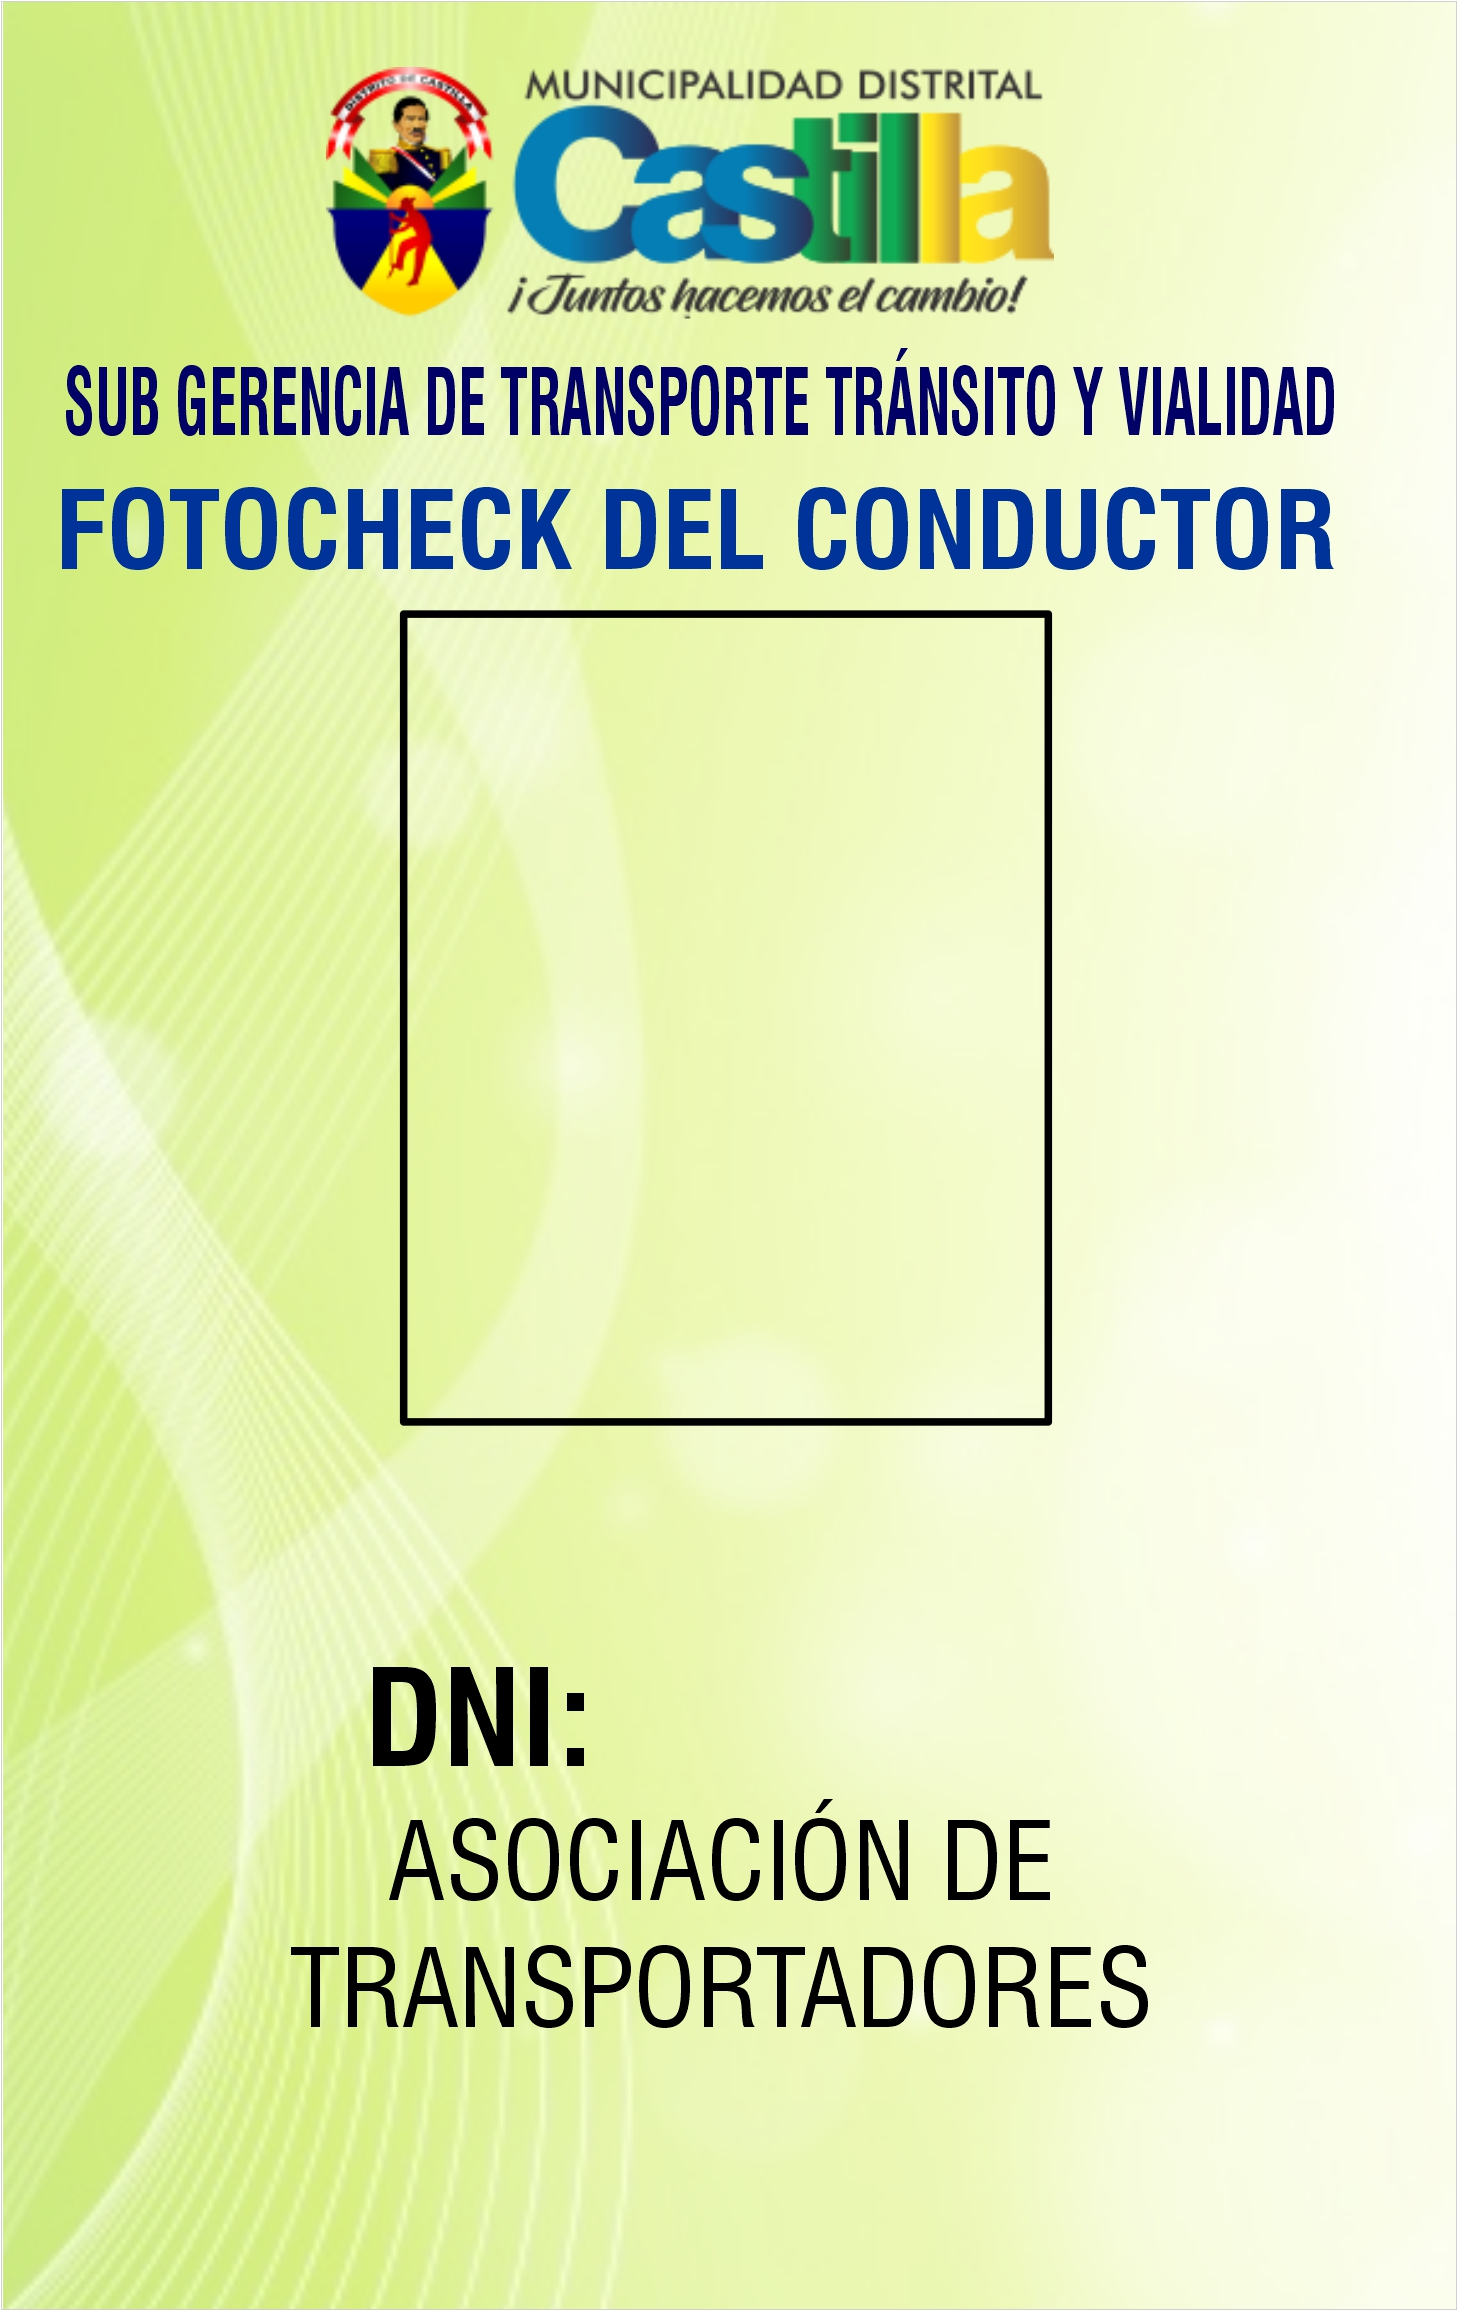
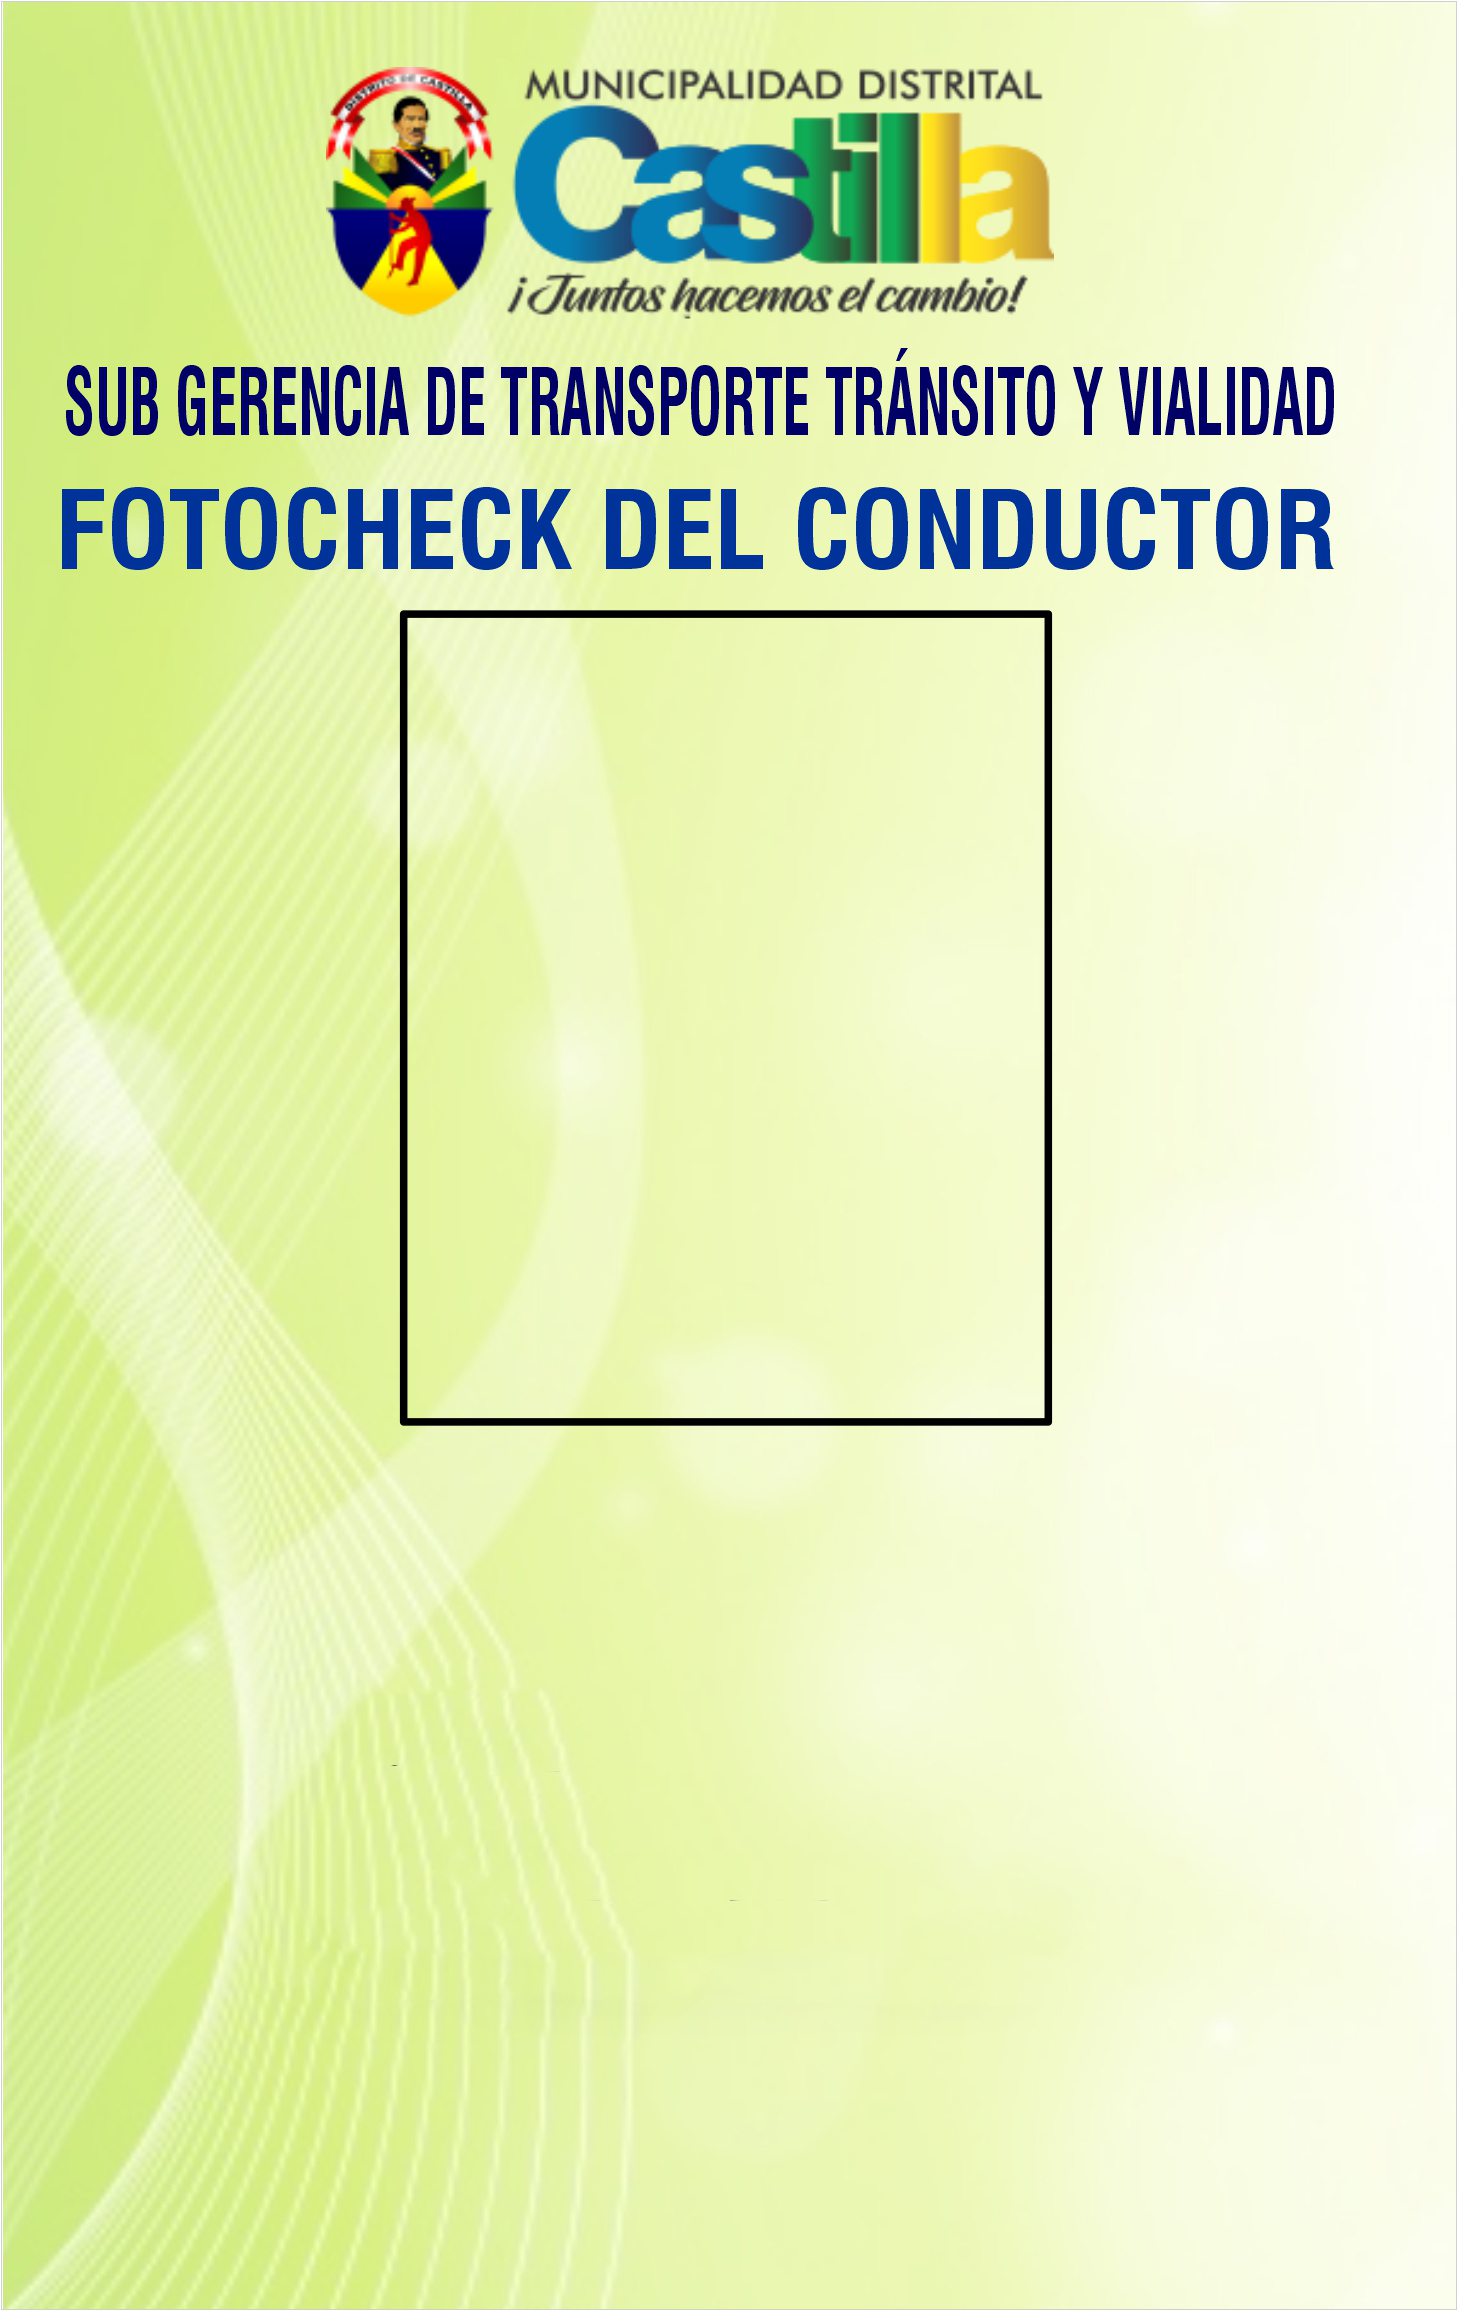
new style fotocheck

diff --git a/resources/views/admin/export/fotocheck.blade.php b/resources/views/admin/export/fotocheck.blade.php
@@ -29,7 +29,21 @@
     height: 30%;
     width: 95%;
     margin: -17% 0 0 -48%;
-    font-size: 2.4rem;
+    font-size: 2rem;
+    font-weight: 900;
+    text-transform: uppercase;
+    text-align: center;
+    line-height: 30px;
+    font-family: sans-serif;
+}
+.texto-encima-dni-tipo {
+    position: absolute;
+    top: 89%;
+    left: 50%;
+    height: 30%;
+    width: 95%;
+    margin: -17% 0 0 -48%;
+    font-size: 1.5rem;
     font-weight: 900;
     text-transform: uppercase;
     text-align: center;
@@ -38,25 +52,41 @@
 }
 .texto-encima-dni {
     position: absolute;
-    top: 90.58%;
-    left: 50%;
-    height: 30%;
-    width: 95%;
-    margin: -17% 0 0 -36%;
-    font-size: 3rem;
-    font-weight: 900;
-    text-transform: uppercase;
-    text-align: center;
-    line-height: 26px;
-}
-.texto-encima-asociacion {
-    position: absolute;
-    top: 107%;
+    top: 93%;
     left: 50%;
     height: 30%;
     width: 95%;
     margin: -17% 0 0 -48%;
-    font-size: 2.4rem;
+    font-size: 1.5rem;
+    font-weight: 900;
+    text-transform: uppercase;
+    text-align: center;
+    line-height: 30px;
+    font-family: sans-serif;
+}
+.texto-encima-asociacion-text {
+    position: absolute;
+    top: 100%;
+    left: 50%;
+    height: 30%;
+    width: 95%;
+    margin: -17% 0 0 -48%;
+    font-size: 1.5rem;
+    font-weight: 900;
+    text-transform: uppercase;
+    text-align: center;
+    line-height: 30px;
+    font-family: sans-serif;
+}
+
+.texto-encima-asociacion {
+    position: absolute;
+    top: 105%;
+    left: 50%;
+    height: 30%;
+    width: 95%;
+    margin: -17% 0 0 -48%;
+    font-size: 2rem;
     font-weight: 900;
     text-transform: uppercase;
     text-align: center;
@@ -132,11 +162,14 @@ body{
             <img src="{{ asset($fotocheck[0]->image) }}" style="width: 220px; height: 274.58px;">
         </div>
         <span id="ter" class="texto-encima-nombre">{{ $fotocheck[0]->socio->nombre_socio }}</span>
+        <span class="texto-encima-dni-tipo">{{ $fotocheck[0]->socio->documento->nombre }}</span>
         <span class="texto-encima-dni">{{ $fotocheck[0]->socio->dni_socio }}</span>
         @if (!empty($fotocheck[0]->socio->asociacione_id))
+            <span class="texto-encima-asociacion-text">TRANSPORTADOR</span>
             <span class="texto-encima-asociacion">"{{ optional($fotocheck[0]->socio->asociacione)->nombre }}"</span>
         @else
-            <span class="texto-encima-asociacion">"Persona Natural"</span>
+            <span class="texto-encima-asociacion-text">SIN TRANSPORTADOR</span>
+            <span class="texto-encima-asociacion">"Es Persona Natural"</span>
         @endif
 
 
